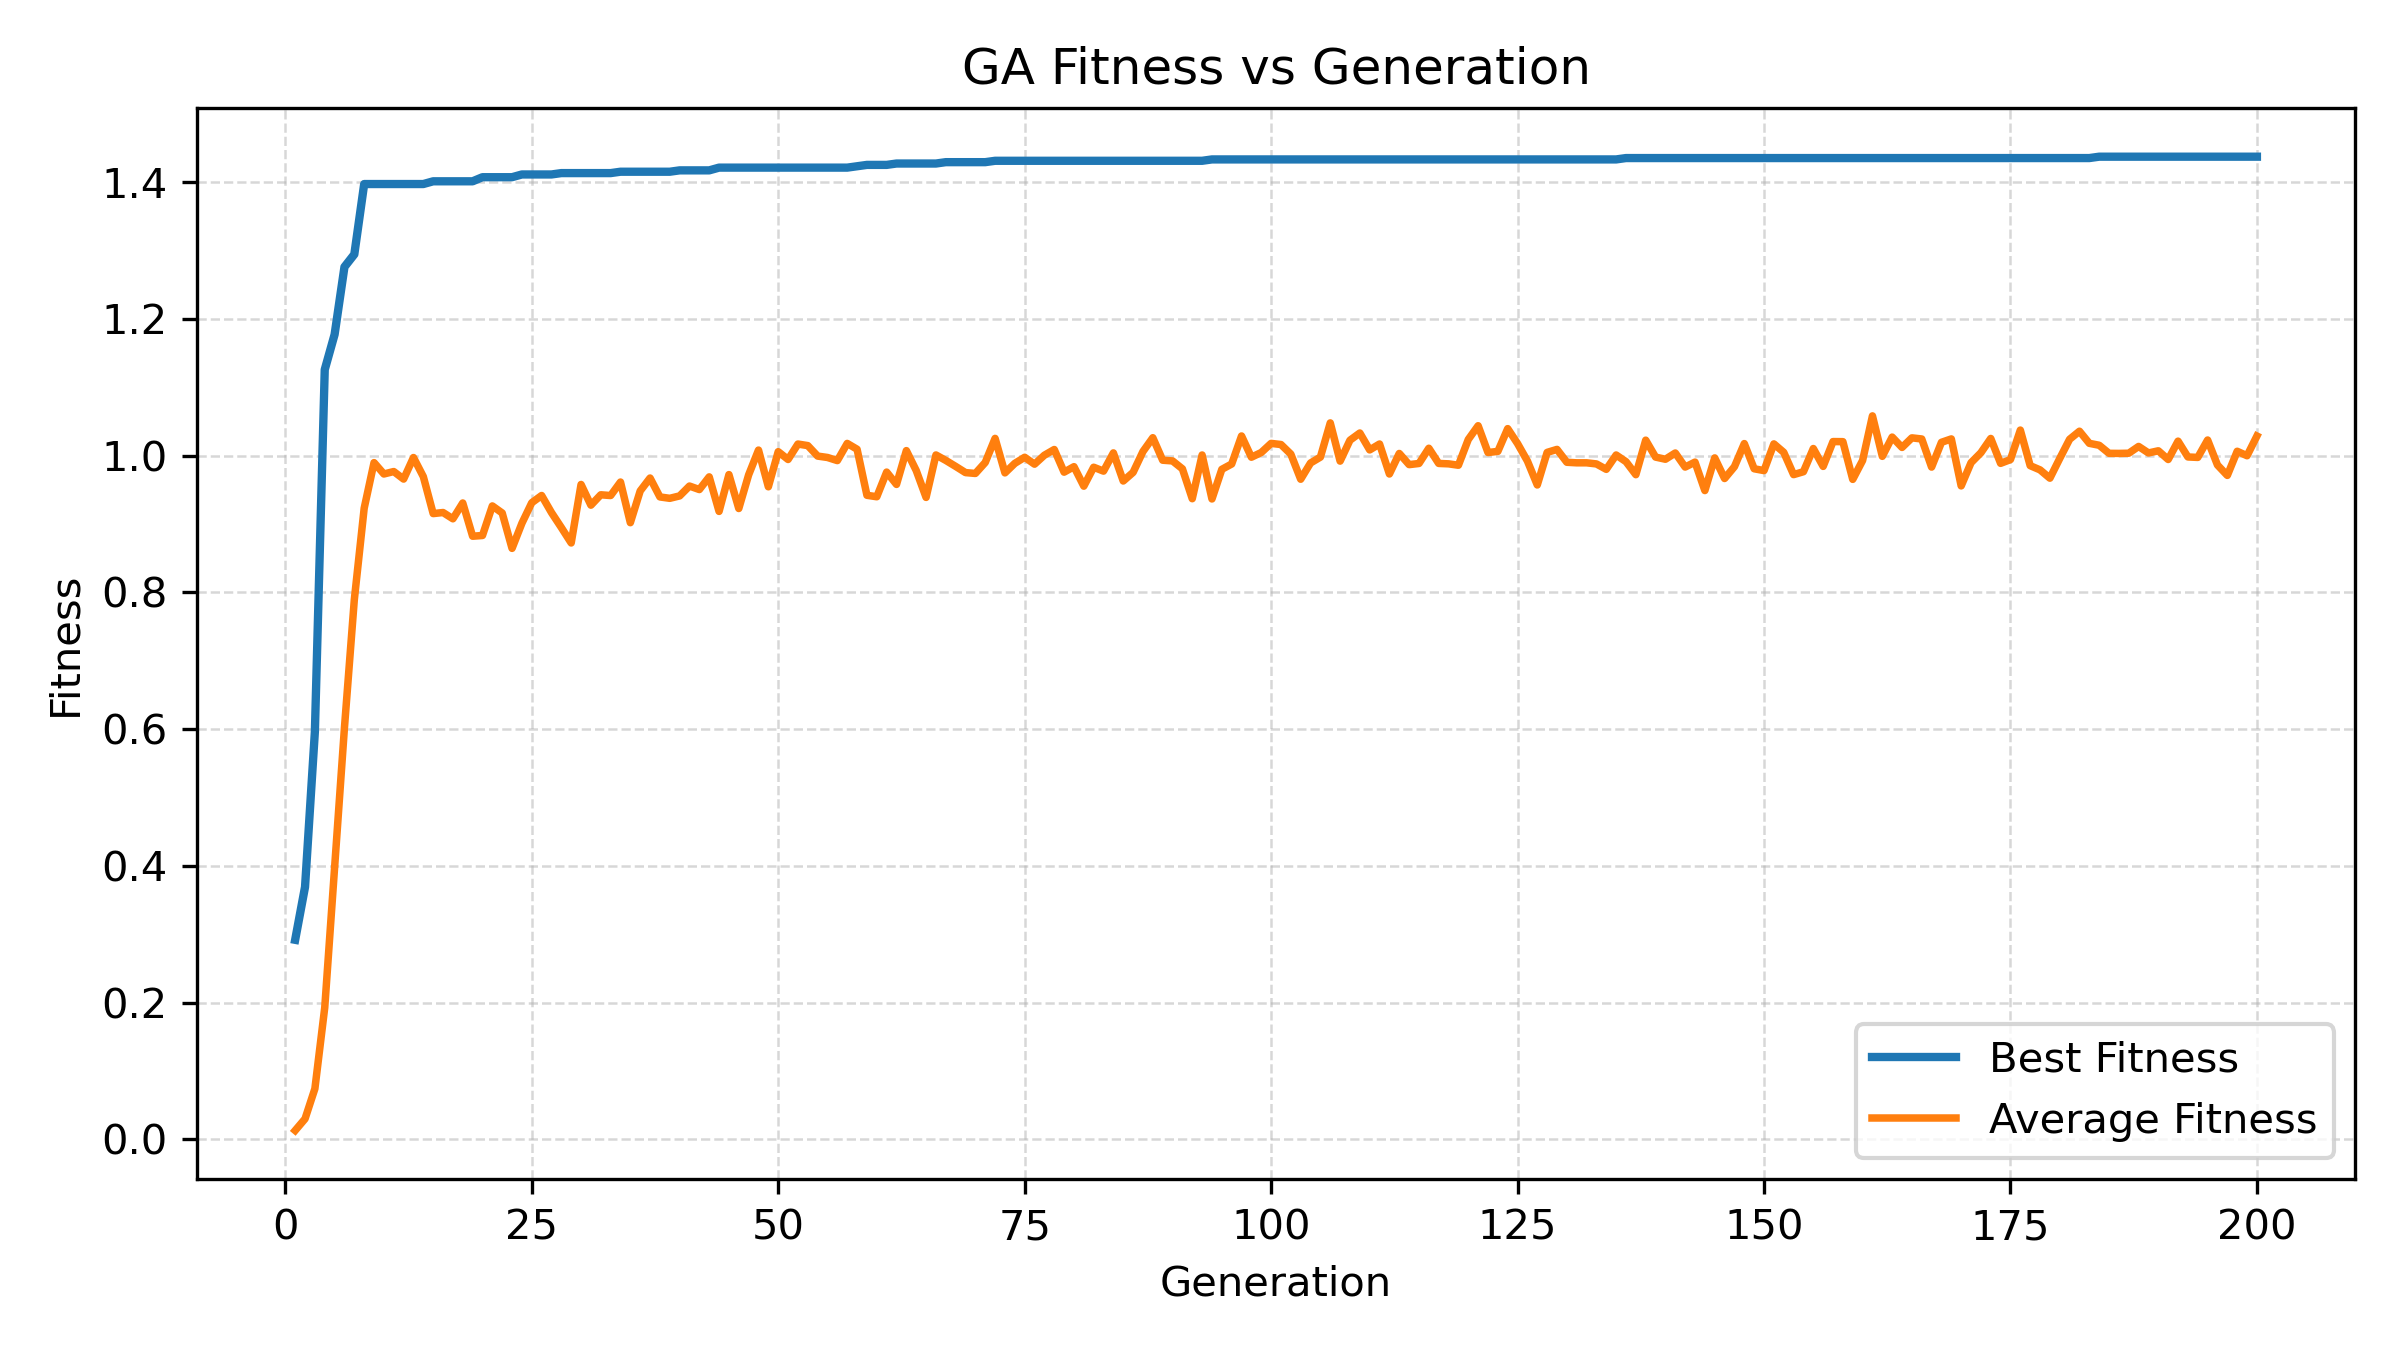
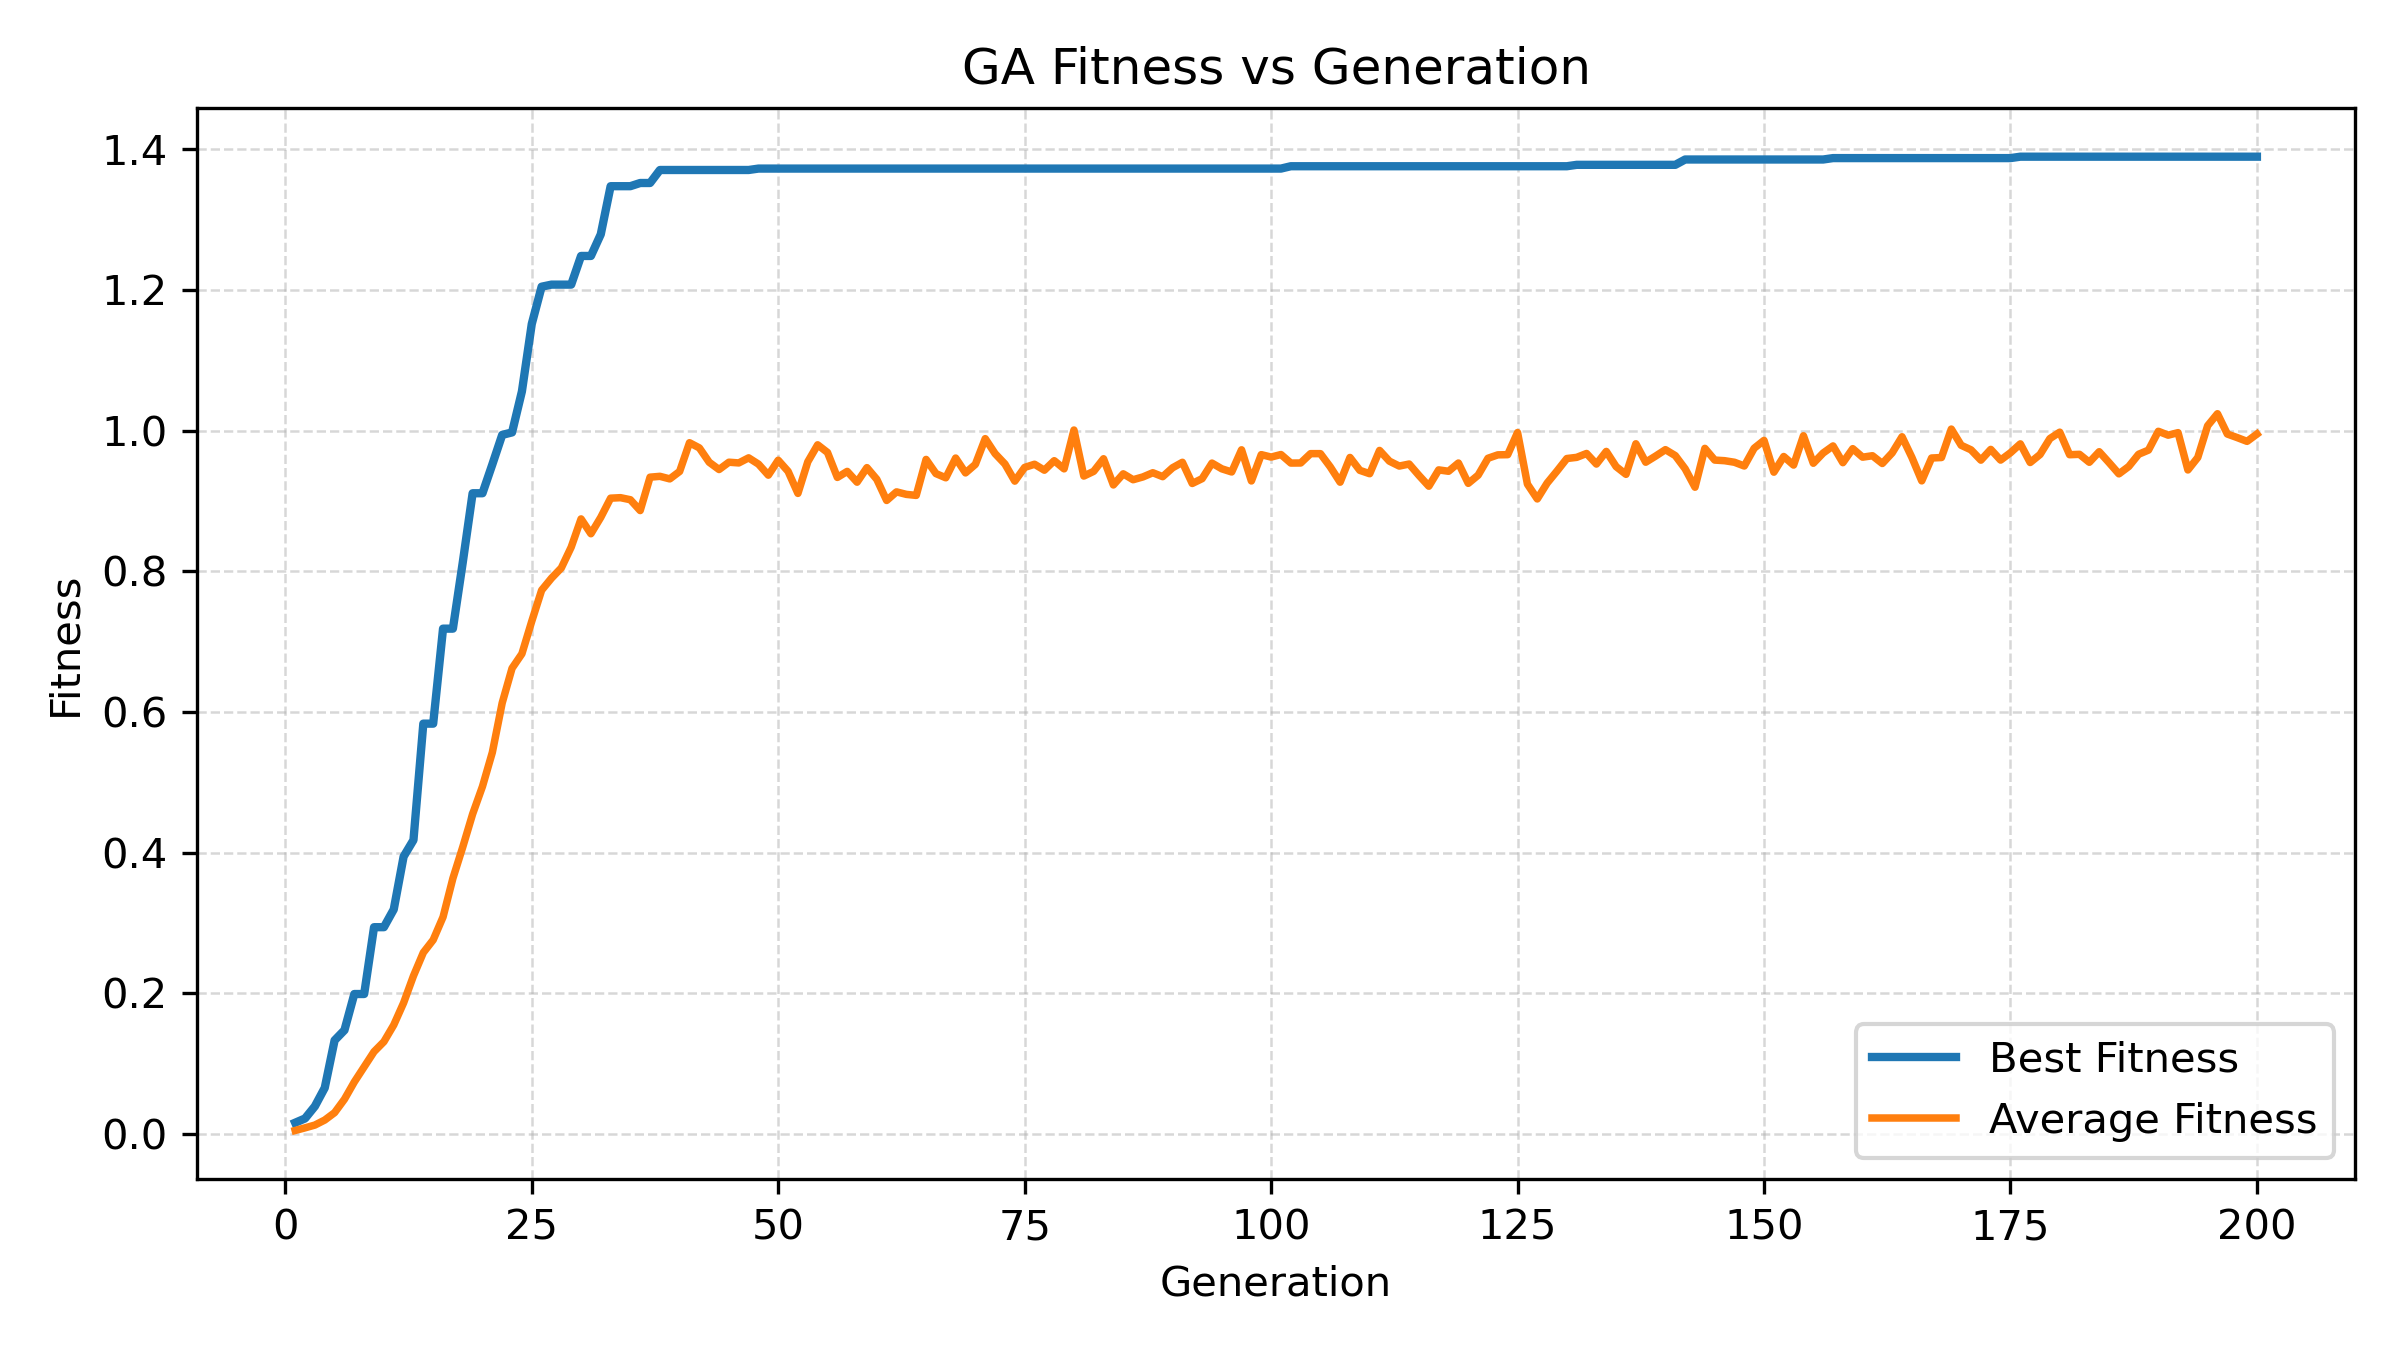
Decrease the step size for precise control

diff --git a/src/apr3_class_python/genetic_algorithm.py b/src/apr3_class_python/genetic_algorithm.py
@@ -12,7 +12,7 @@ TARGET_DISTANCE_THRESHOLD_MM = 1.0  # Distance threshold for trimming chromosome
 POPULATION_SIZE = 150  # Number of chromosomes per generation
 RANDOM_BACKFILL_PERCENT = 0.15  # Fraction of new random individuals per generation
 EE_Z_OFFSET_MM = 195.0  # End-effector Z-axis offset in millimeters
-STEP_SIZE = 2  # Step size for each action in joint space
+STEP_SIZE = 1  # Step size for each action in joint space
 NUM_GENERATIONS = 200  # Default number of generations to evolve, default is 100
 INITIAL_GENE_LENGTH_RANGE = (10, 60)  # Range for initial chromosome length
 
